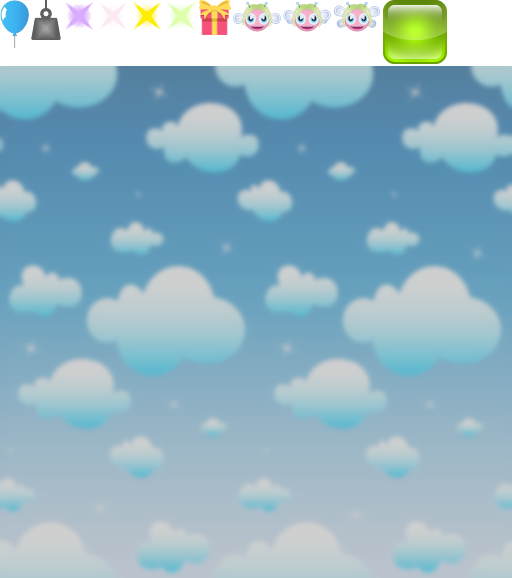
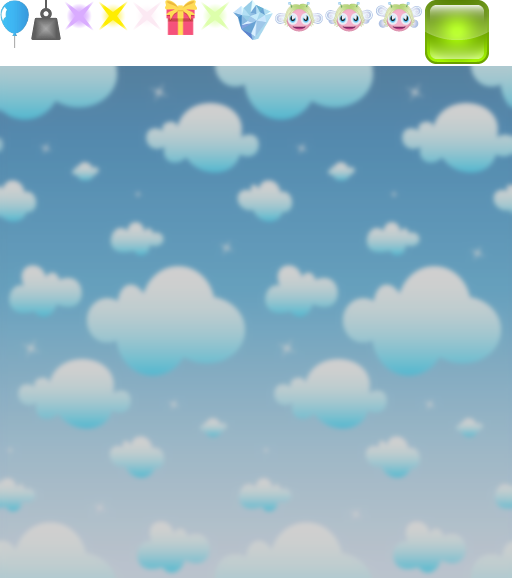
Add ice shards for winter level

Changed region(s): [[0.1875, 0.0, 0.9688, 0.1246]]

diff --git a/src/game/World.js b/src/game/World.js
@@ -6,8 +6,9 @@ import PickUps from './PickUps.js';
 import Pixie from './Pixie.js';
 import PointEmitter from '../particle/PointEmitter.js';
 import Night from './Night.js';
+import IceShard from './IceShard.js';
 import KeyBinder from '../helpers/KeyBinder.js';
-import { randomInt } from '../helpers/RandomNumbers.js';
+import { randomInt, randomFloat } from '../helpers/RandomNumbers.js';
 import contain from '../helpers/contain.js';
 import hitTestRectangle from '../helpers/hitTestRectangle.js';
 import EffectTimer from '../helpers/EffectTimer.js';
@@ -23,7 +24,8 @@ import { BACKGROUND_SCROLL_SPEED,
          FINISH_Y,
          INITIAL_NUMBER_OF_LIVES,
          MAX_NUMBER_OF_LIVES,
-         GRAVITY } from '../const/worldData.js';
+         GRAVITY,
+         ICE_SHARD_FREQUENCY } from '../const/worldData.js';
 
 export default class World {
   constructor(gameContainer, textures, sounds, levelData) {
@@ -36,6 +38,8 @@ export default class World {
     this.pixieHasReachedEnd = false;
     this.numberOfLives = INITIAL_NUMBER_OF_LIVES;
     this.pixieEffectTimer = new EffectTimer();
+    this.iceShardTimer = 0;
+    this.iceShards = [];
 
     this.createSky();
     this.createForeground();
@@ -175,6 +179,12 @@ export default class World {
     } else {
       this.night.visible = false;
     }
+
+    for (let iceShard of this.iceShards) {
+      this.container.removeChild(iceShard);
+      this.iceShards = [];
+    }
+    this.iceShardTimer = 0;
 
     if (this.levelData.winter) {
       this.sky.winterize();
@@ -333,6 +343,10 @@ export default class World {
       this.pillars.slide(dt);
     }
 
+    if (this.levelData.winter) {
+      this.rainShards(dt);
+    }
+
     this.pixie.updateCurrent(dt);
     this.pixieEmitter.update(dt);
     this.pixieEffectTimer.update(dt);
@@ -352,6 +366,24 @@ export default class World {
 
     if (this.finish.getGlobalPosition().x > 220) {
       this.foreground.x -= FOREGROUND_SCROLL_SPEED * dt;
+    }
+  }
+
+  rainShards(dt) {
+    this.iceShardTimer += dt;
+
+    for (let iceShard of this.iceShards) {
+      iceShard.updateCurrent(dt);
+    }
+
+    if (this.iceShardTimer > ICE_SHARD_FREQUENCY) {
+      let iceShard = new IceShard(
+        [this.textures['ice-shard.png']],
+        randomFloat(RENDERER_WIDTH / 2, 3 * RENDERER_WIDTH / 4),
+        0);
+      this.iceShards.push(iceShard);
+      this.container.addChild(iceShard);
+      this.iceShardTimer = 0;
     }
   }
 
@@ -387,6 +419,16 @@ export default class World {
             pixieCrashed = true;
             break pillars;
           }
+        }
+      }
+    }
+
+    for (let iceShard of this.iceShards) {
+      if (hitTestRectangle(this.pixie, iceShard, true)) {
+        if (this.pixie.invincible) {
+          iceShard.visible = false;
+        } else {
+          pixieCrashed = true;
         }
       }
     }

diff --git a/src/game/IceShard.js b/src/game/IceShard.js
@@ -1,0 +1,20 @@
+import Entity from './Entity.js';
+import { randomFloat } from '../helpers/RandomNumbers.js';
+
+export default class IceShard extends Entity {
+  constructor(textureFrames, x, y) {
+    super(
+      textureFrames,
+      x,
+      y,
+      randomFloat(-0.15, -0.22),
+      randomFloat(0.15, 0.2), 0, 0);
+
+    this.anchor.set(0.5, 0.5);
+    this.rotation = randomFloat(0, 6.28);
+  }
+
+  updateCurrent(dt) {
+    this.updatePosition(dt);
+  }
+}

diff --git a/src/game/Sky.js b/src/game/Sky.js
@@ -10,7 +10,7 @@ export default class Sky {
     this.container.addChild(this.sprite);
 
     this.colorMatrix = new filters.ColorMatrixFilter();
-    this.colorMatrix.desaturate();
+    this.colorMatrix.saturate(-0.5, false);
 
     const whiteCircle = new Graphics();
     whiteCircle.beginFill(0xFFFFFF);

diff --git a/src/const/worldData.js b/src/const/worldData.js
@@ -18,3 +18,4 @@ export const FINISH_Y = 192;
 export const INITIAL_NUMBER_OF_LIVES = 3;
 export const MAX_NUMBER_OF_LIVES = 5;
 export const GRAVITY = 0.0003;
+export const ICE_SHARD_FREQUENCY = 3000;
